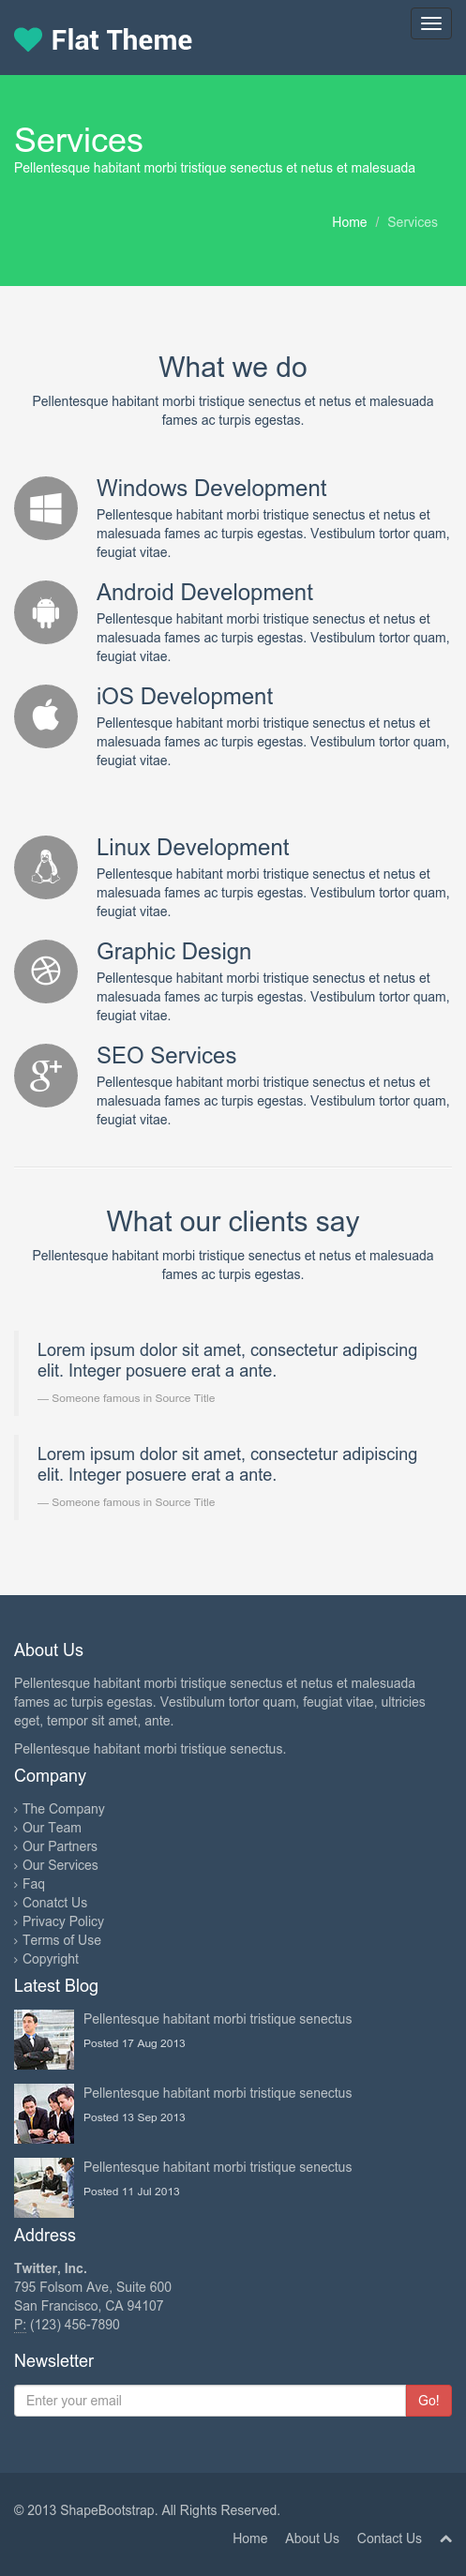
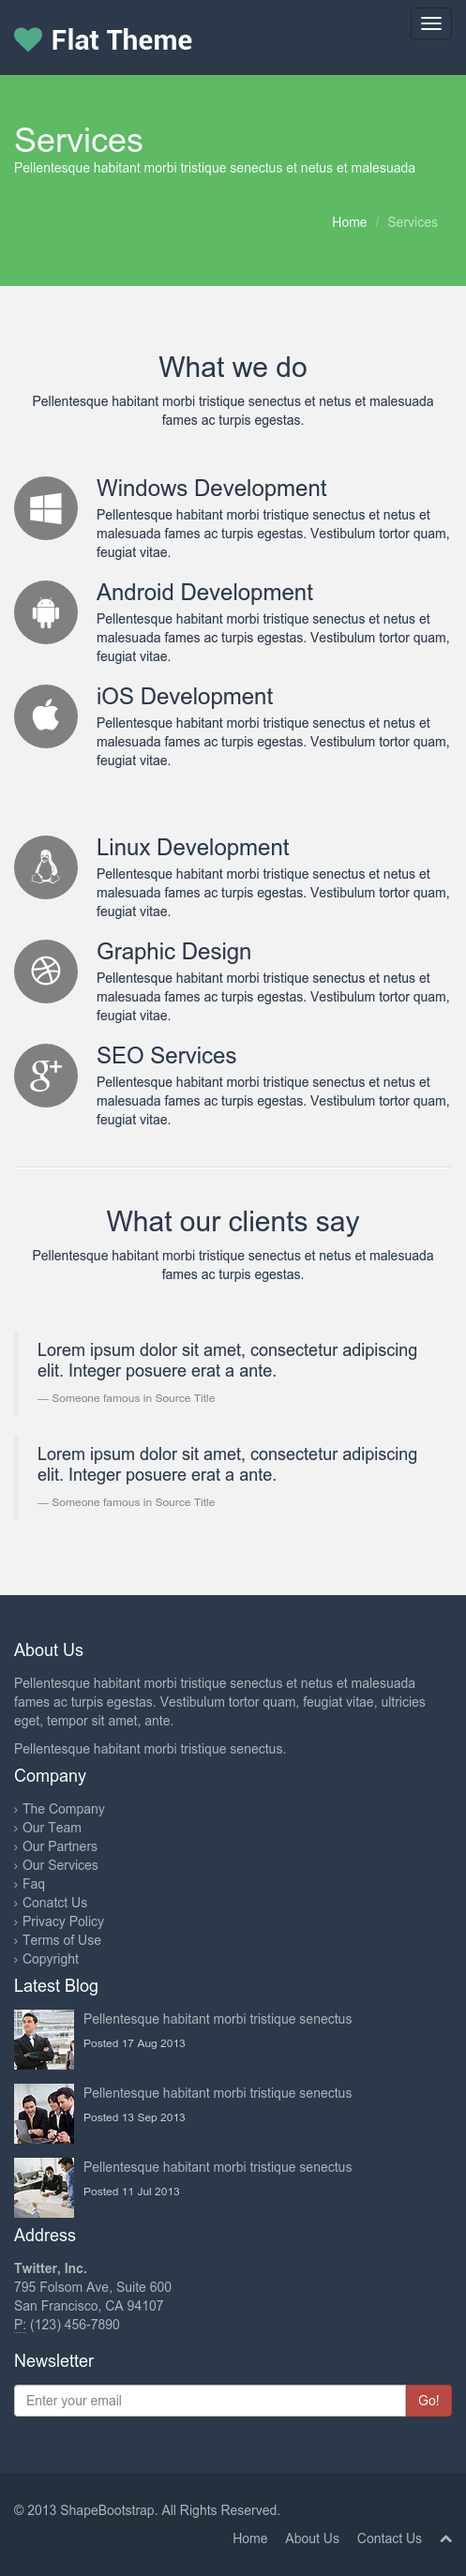
insertado de la pagina services.html

Changed region(s): [[0.0, 0.0, 1.0, 0.1238], [0.8753, 0.9283, 0.9658, 0.9592], [0.1207, 0.8045, 0.1509, 0.8355]]

diff --git a/services.html b/services.html
@@ -9,7 +9,8 @@
     <link href="css/bootstrap.min.css" rel="stylesheet">
     <link href="css/font-awesome.min.css" rel="stylesheet">
     <link href="css/animate.css" rel="stylesheet">
-    <link href="css/main.css" rel="stylesheet">
+    <link rel="stylesheet" href="css/comu.css">
+    <link href="css/services.css" rel="stylesheet">
     <!--[if lt IE 9]>
     <script src="js/html5shiv.js"></script>
     <script src="js/respond.min.js"></script>
@@ -21,7 +22,227 @@
     <link rel="apple-touch-icon-precomposed" href="images/ico/apple-touch-icon-57-precomposed.png">
   </head><!--/head-->
   <body>
-    <!-- Inserte código aqui -->
+    <div class="container-fluid">
+        <header class="b-h">
+            <div class="container">
+                <div class="row">
+                    <div class="col-md-5 col-sm-3 col-xs-8">
+                        <h3><span class="glyphicon glyphicon-heart heart"></span>
+                            Flat Theme
+                        </h3>
+                    </div>
+                    <div class="col-md-7 col-sm-9 col-xs-4">
+                        <nav class="navbar navbar-default" role="navigation">
+                          <div class="navbar-header">
+                            <button type="button" class="navbar-toggle " data-toggle="collapse"
+                                    data-target=".navbar-ex1-collapse">
+                              <span class="sr-only">Desplegar navegación</span>
+                              <span class="icon-bar"></span>
+                              <span class="icon-bar"></span>
+                              <span class="icon-bar"></span>
+                            </button>
+                          </div>
+                          <div class="collapse navbar-collapse navbar-ex1-collapse b-h">
+                            <ul class="nav navbar-nav">
+                              <li class="enlace"><a href="index.html">Home</a></li>
+                              <li class="enlace"><a href="About-Us.html">About Us</a></li>
+                              <li class="enlace"><a href="services.html">Services</a></li>
+                              <li class="enlace"><a href="portafolio.html">Portafolio</a></li>
+                              <li class="enlace"> <a href="blog.html">Blog</a></li>
+                              <li class="enlace"><a href="contact-us.html">Contact</a></li>
+                            </ul>
+                          </div>
+                        </nav>
+                    </div>
+                </div>
+            </div>
+        </header>
+        <section class="verde">
+            <div class="container">
+                <div class="row">
+                    <div class="col-md-6 col-xs-12 text-white">
+                        <h2>Services</h2>
+                        <p>Pellentesque habitant morbi trisque senectus et netus et malesuada</p>
+                    </div>
+                    <div class="col-md-6 col-xs-12 text-white text-left">
+                        <ul>
+                            <li><a href="#">Home</a></li>
+                            <li>/</li>
+                            <li><a href="#">Services</a></li>
+                        </ul>
+                    </div>
+                </div>
+            </div>
+        </section>
+        <section class="gris">
+            <div class="row">
+                <div class="container">
+                    <div class="col-md-12 col-sm-12 col-xs-12" id="center">
+                        <h3>What we do</h3>
+                        <p>Pellentesque habitant morbi trisque senectus et netus et malesuada fames ac turpis egestas.</p>
+                    </div>
+                </div>
+            </div>
+        </section>
+        <section class="gris">
+            <div class="row">
+                <div class="container">
+                    <div class="col-md-1 col-sm-1 col-xs-3">
+                        <i class="fa fa-windows" aria-hidden="true"></i>
+                    </div>
+                    <div class="col-md-3 col-sm-5 col-xs-9">
+                        <h3>Windosws Development</h3>
+                        <p>Pallentesque habitant morbi tristique senectus et netus et malesuada fames ac turpis egestas. Vestibulum tortor quam, feigiat vitae</p>
+                    </div>
+                   <div class="col-md-1 col-sm-1 col-xs-3">
+                       <i class="fa fa-android" aria-hidden="true"></i>
+                   </div>
+                    <div class="col-md-3 col-sm-5 col-xs-9">
+                        <h3>Androide Development</h3>
+                        <p>Pallentesque habitant morbi tristique senectus et netus et malesuada fames ac turpis egestas. Vestibulum tortor quam, feigiat vitae</p>
+                    </div>
+                    <div class="col-md-1 col-sm-1 col-xs-3">
+                        <i class="fa fa-apple" aria-hidden="true"></i>
+                    </div>
+                    <div class="col-md-3 col-sm-11 col-xs-9">
+                        <h3>iOS Development</h3>
+                        <p>Pallentesque habitant morbi tristique senectus et netus et malesuada fames ac turpis egestas. Vestibulum tortor quam, feigiat vitae</p>
+                    </div>
+                </div>
+            </div>
+        </section>
+        <section class="gris">
+            <div class="row">
+                <div class="container">
+                    <div class="col-md-1 col-sm-1 col-xs-3">
+                        <i class="fa fa-linux" aria-hidden="true"></i>
+                    </div>
+                    <div class="col-md-3 col-sm-5 col-xs-9">
+                        <h3>Linux Development</h3>
+                        <p>Pallentesque habitant morbi tristique senectus et netus et malesuada fames ac turpis egestas. Vestibulum tortor quam, feigiat vitae</p>
+                    </div>
+                    <div class="col-md-1 col-sm-1 col-xs-3">
+                        <i class="fa fa-dribbble" aria-hidden="true"></i>
+                    </div>
+                    <div class="col-md-3 col-sm-5 col-xs-9">
+                        <h3>Graphic Desing</h3>
+                        <p>Pallentesque habitant morbi tristique senectus et netus et malesuada fames ac turpis egestas. Vestibulum tortor quam, feigiat vitae</p>
+                    </div>
+                    <div class="col-md-1 col-sm-1 col-xs-3">
+                        <i class="fa fa-google-plus" aria-hidden="true"></i>
+                    </div>
+                    <div class="col-md-3 col-sm-11 col-xs-9">
+                        <h3>SEO Services</h3>
+                        <p>Pallentesque habitant morbi tristique senectus et netus et malesuada fames ac turpis egestas. Vestibulum tortor quam, feigiat vitae</p>
+                    </div>
+                </div>
+            </div>
+        </section>
+        <section class="gris">
+            <div class="row">
+                <div class="container">
+                    <div class="col-md-12 col-sm-12 col-xs-12" id="center">
+                        <h3>What our clients say</h3>
+                        <h4>Pellentesque habitant morbi trisque senectus et netus et malesuada fames ac turpis egestas.</h4>
+                    </div>
+                </div>
+            </div>
+        </section>
+        <section class="gris">
+            <div class="row">
+                <div class="container">
+                    <div class="col-md-6 col-sm-6 col-xs-12"id="abajo">
+                        <p>Lorem ipsum dolor sit amet, consectetur adipisicing elit. Praesentium dicta sunt ea voluptatum cupiditate</p>
+                        <small>Someone famous in Source Title</small>
+                    </div>
+                    <div class="col-md-6 col-sm-6 col-xs-12"id="abajo">
+                        <h4>Lorem ipsum dolor sit amet, consectetur adipisicing elit. Praesentium dicta sunt ea voluptatum cupiditate</h4>
+                        <small>Someone famous in Source Title</small>
+                    </div>
+                </div>
+            </div>
+        </section>
+        <footer>
+            <div class="container">
+                <div class="row">
+                    <div class="col-md-3 col-sm-6 col-xs-12">
+                        <h4>About Us</h4>
+                        <p>Pallentesque habitant morbi tristique senectus et netus et malesuada fames ac turpis egestas. Vestibulum tortor quam, feigiat vitae, ultricies eget, tempor sit amet, ante.</p>
+                        <p>Pallentesque habitat morbi trisque senrctus</p>
+                    </div>
+                    <div class="col-md-3 col-sm-6 col-xs-12">
+                        <h4>Company</h4>
+                        <p>> The Company</p>
+                        <p>> Our Team</p>
+                        <p>> Our Partners</p>
+                        <p>> Faq</p>
+                        <p>> Conantact Us</p>
+                        <p>> Privacy Policy</p>
+                        <p>> Terms of Use</p>
+                        <p>> Copyright</p>
+                    </div>
+                    <div class="col-md-3 col-sm-6 col-xs-12">        
+                      <h4><span>Latest Blog</span></h4>
+                       <div class="media">
+                            <a class="pull-left" href="#">
+                              <img class="media-object" src="images/blog/avatar.jpg" />
+                            </a>
+                            <div class="media-body">
+                               <p class="media-heading">Pallentesque habitant morbi tristique senectus</p>
+                               <h5>Posted 17 Aug 2013</h5>
+                            </div>
+                       </div>
+                       <div class="media">
+                            <a class="pull-left" href="#">
+                              <img class="media-object" src="images/blog/thumb2.jpg"/>
+                            </a>
+                            <div class="media-body">
+                              <p class="media-heading">Pallentesque habitant morbi tristique senectus</p> <h5>Posted 13 Sep 2013</h5>
+                            </div>
+                       </div>
+                       <div class="media">
+                            <a class="pull-left" href="#">
+                              <img class="media-object" src="images/blog/thumb3.jpg"/>
+                            </a>
+                            <div class="media-body">
+                              <p class="media-heading">Pallentesque habitant morbi tristique senectus</p>
+                               <h5>Posted 11 Jul 2013</h5>
+                            </div>
+                       </div> 
+                   </div>
+                    <div class="col-md-3 col-sm-6 col-xs-12">
+                        <h4>Address</h4>
+                        <p>Twtter, Inc.</p>
+                        <p>795 Folsom Ave, Suite 600<p>
+                            <p>San Francisco, CA 94107</p>
+                            <p>P: (123) 456-7890</p>
+                            <h4>Newsletter</h4>
+                        <form class="navbar-form navbar-left" role="search">
+                          <div class="form-group">
+                            <input type="text" class="form-control" placeholder="Enter your email">
+                          </div>
+                          <button type="submit" class="btn btn-default gol">Gol</button>
+                        </form>
+                    </div>
+                </div>
+            </div>
+            <div class="row mar"id="footer">
+               <div class="container">
+                    <div class="col-md-8 col-sm-6 col-xs-12">
+                        &copy; 2013 ShapeBootstrap. All Rights Reserved.
+                    </div>
+                    <div class="col-md-4 col-sm-6 col-xs-12">
+                        <ul class="left-t">
+                            <a href="#"><li>Home</li></a>
+                            <a href="#"><li>About Us</li></a>
+                            <a href="#"><li>Contact Us</li></a>
+                            <a href="#"><li><span class="glyphicon glyphicon-chevron-up"></span></li></a>
+                        </ul>
+                    </div>
+                </div>
+            </div>
+        </footer>
+    </div>
 
     <script src="js/jquery.js"></script>
     <script src="js/bootstrap.min.js"></script>

diff --git a/css/services.css b/css/services.css
@@ -1,0 +1,70 @@
+#center{
+	text-align: center;
+}
+.gris{
+	color:#1B1C3C;
+}
+#abajo{
+	margin-bottom: 40px;
+}
+.fa-windows {
+	background-color: #939393;
+	border-radius: 360px;
+	padding: 14px;
+	color:white;
+	width: 60px;
+	height: 60px;
+	text-align: center;
+	font-size: 30px;
+}
+.fa-android{
+	background-color:#939393;
+	border-radius: 360px;
+	padding: 14px;
+	color:white;
+	width: 60px;
+	height: 60px;
+	text-align: center;
+	font-size: 30px;
+}
+.fa-apple{
+	background-color: #939393;
+	border-radius: 360px;
+	padding: 14px;
+	color:white;
+	width: 60px;
+	height: 60px;
+	text-align: center;
+	font-size: 30px;
+}
+
+.fa-linux{
+	background-color:#939393;
+	border-radius: 360px;
+	padding: 14px;
+	color:white;
+	width: 60px;
+	height: 60px;
+	text-align: center;
+	font-size: 30px;
+}
+.fa-dribbble{
+	background-color:#939393;
+	border-radius: 360px;
+	padding: 14px;
+	color:white;
+	width: 60px;
+	height: 60px;
+	text-align: center;
+	font-size: 30px;
+}
+.fa-google-plus{
+	background-color: #939393;
+	border-radius: 360px;
+	padding: 14px;
+	color:white;
+	width: 60px;
+	height: 60px;
+	text-align: center;
+	font-size: 30px;
+}

diff --git a/index.html b/index.html
@@ -108,8 +108,8 @@
                         <div class="col-md-3 col-sm-3 col-xs-12">
                             <h4>Our Latest Project</h4>
                             <p>Pallentesque habitant morbi tristique senectus et netus et malesuada fames ac turpis egestas.</p>
-                            <button type="submit" class="btn btn-default mayor"><</button>
-                            <button type="submit" class="btn btn-default mayor1">></button>
+                            <button type="submit" class="btn btn-default mayor"> < </button>
+                            <button type="submit" class="btn btn-default mayor1"> > </button>
                         </div>
                         <div class="col-md-3 col-sm-3 col-xs-4">
                             <img class="cuadro" src="images/portfolio/recent/item1.png"/>

diff --git a/css/comu.css b/css/comu.css
@@ -6,7 +6,7 @@
 	margin-right: 0;
 }
 .b-h{
-	background-color:#2C435A;
+	background-color:#34495e;
 	color:white;
 
 }
@@ -29,11 +29,26 @@
 	text-align: right;
 }
 footer{
-	background-color:#2C435A;
+	background-color:#34495e;
 	color:#DFE7E5;
 	padding-top: 40px ;
 }
-
+.verde ul li {
+	display: inline-block;
+	margin: 8% 2%;
+	float: right;
+	height: 70px;
+	color:white;
+}
+.text-left {
+	text-align: left;
+}
+.verde a{
+	color:#D1E7D7;
+}
+.text-center {
+	text-align: center;
+}
 h4{
 	font-family: 'PT Serif', serif;
 }

diff --git a/about-us.html b/about-us.html
@@ -67,7 +67,7 @@
                 </div>
                 <div class="col-md-6 col-xs-12 text-white text-left">
                     <ul>
-                        <li><a href="#">Mome<a/></li>
+                        <li><a href="#">Home</a></li>
                         <li>/</li>
                         <li><a href="#">About Us</a></li>
                     </ul>
